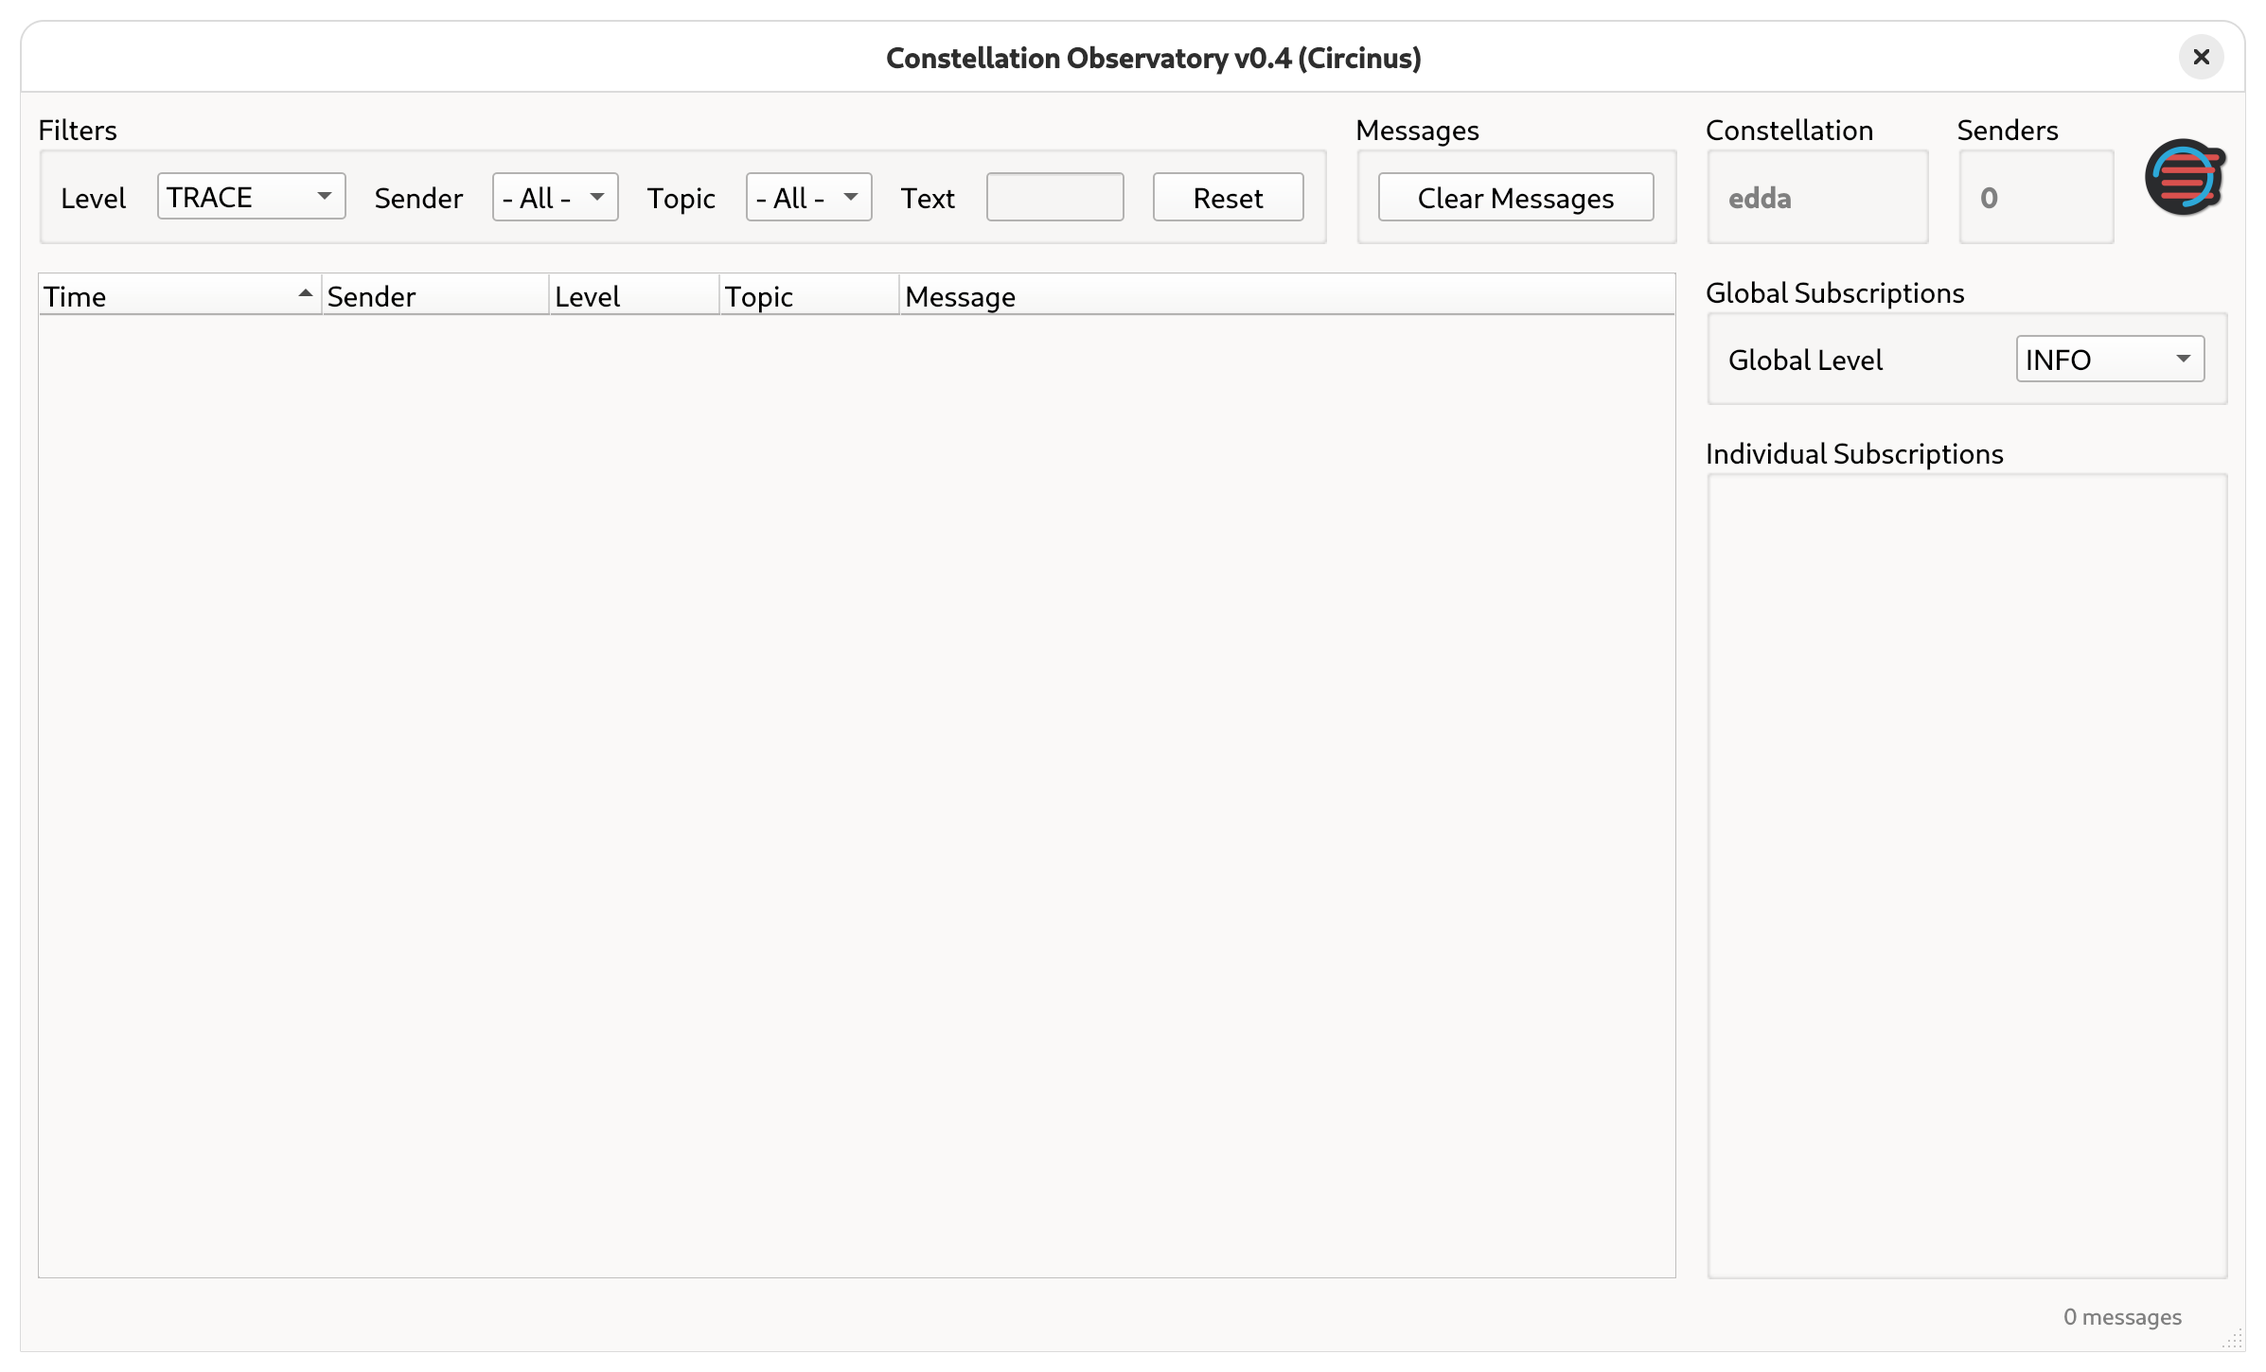
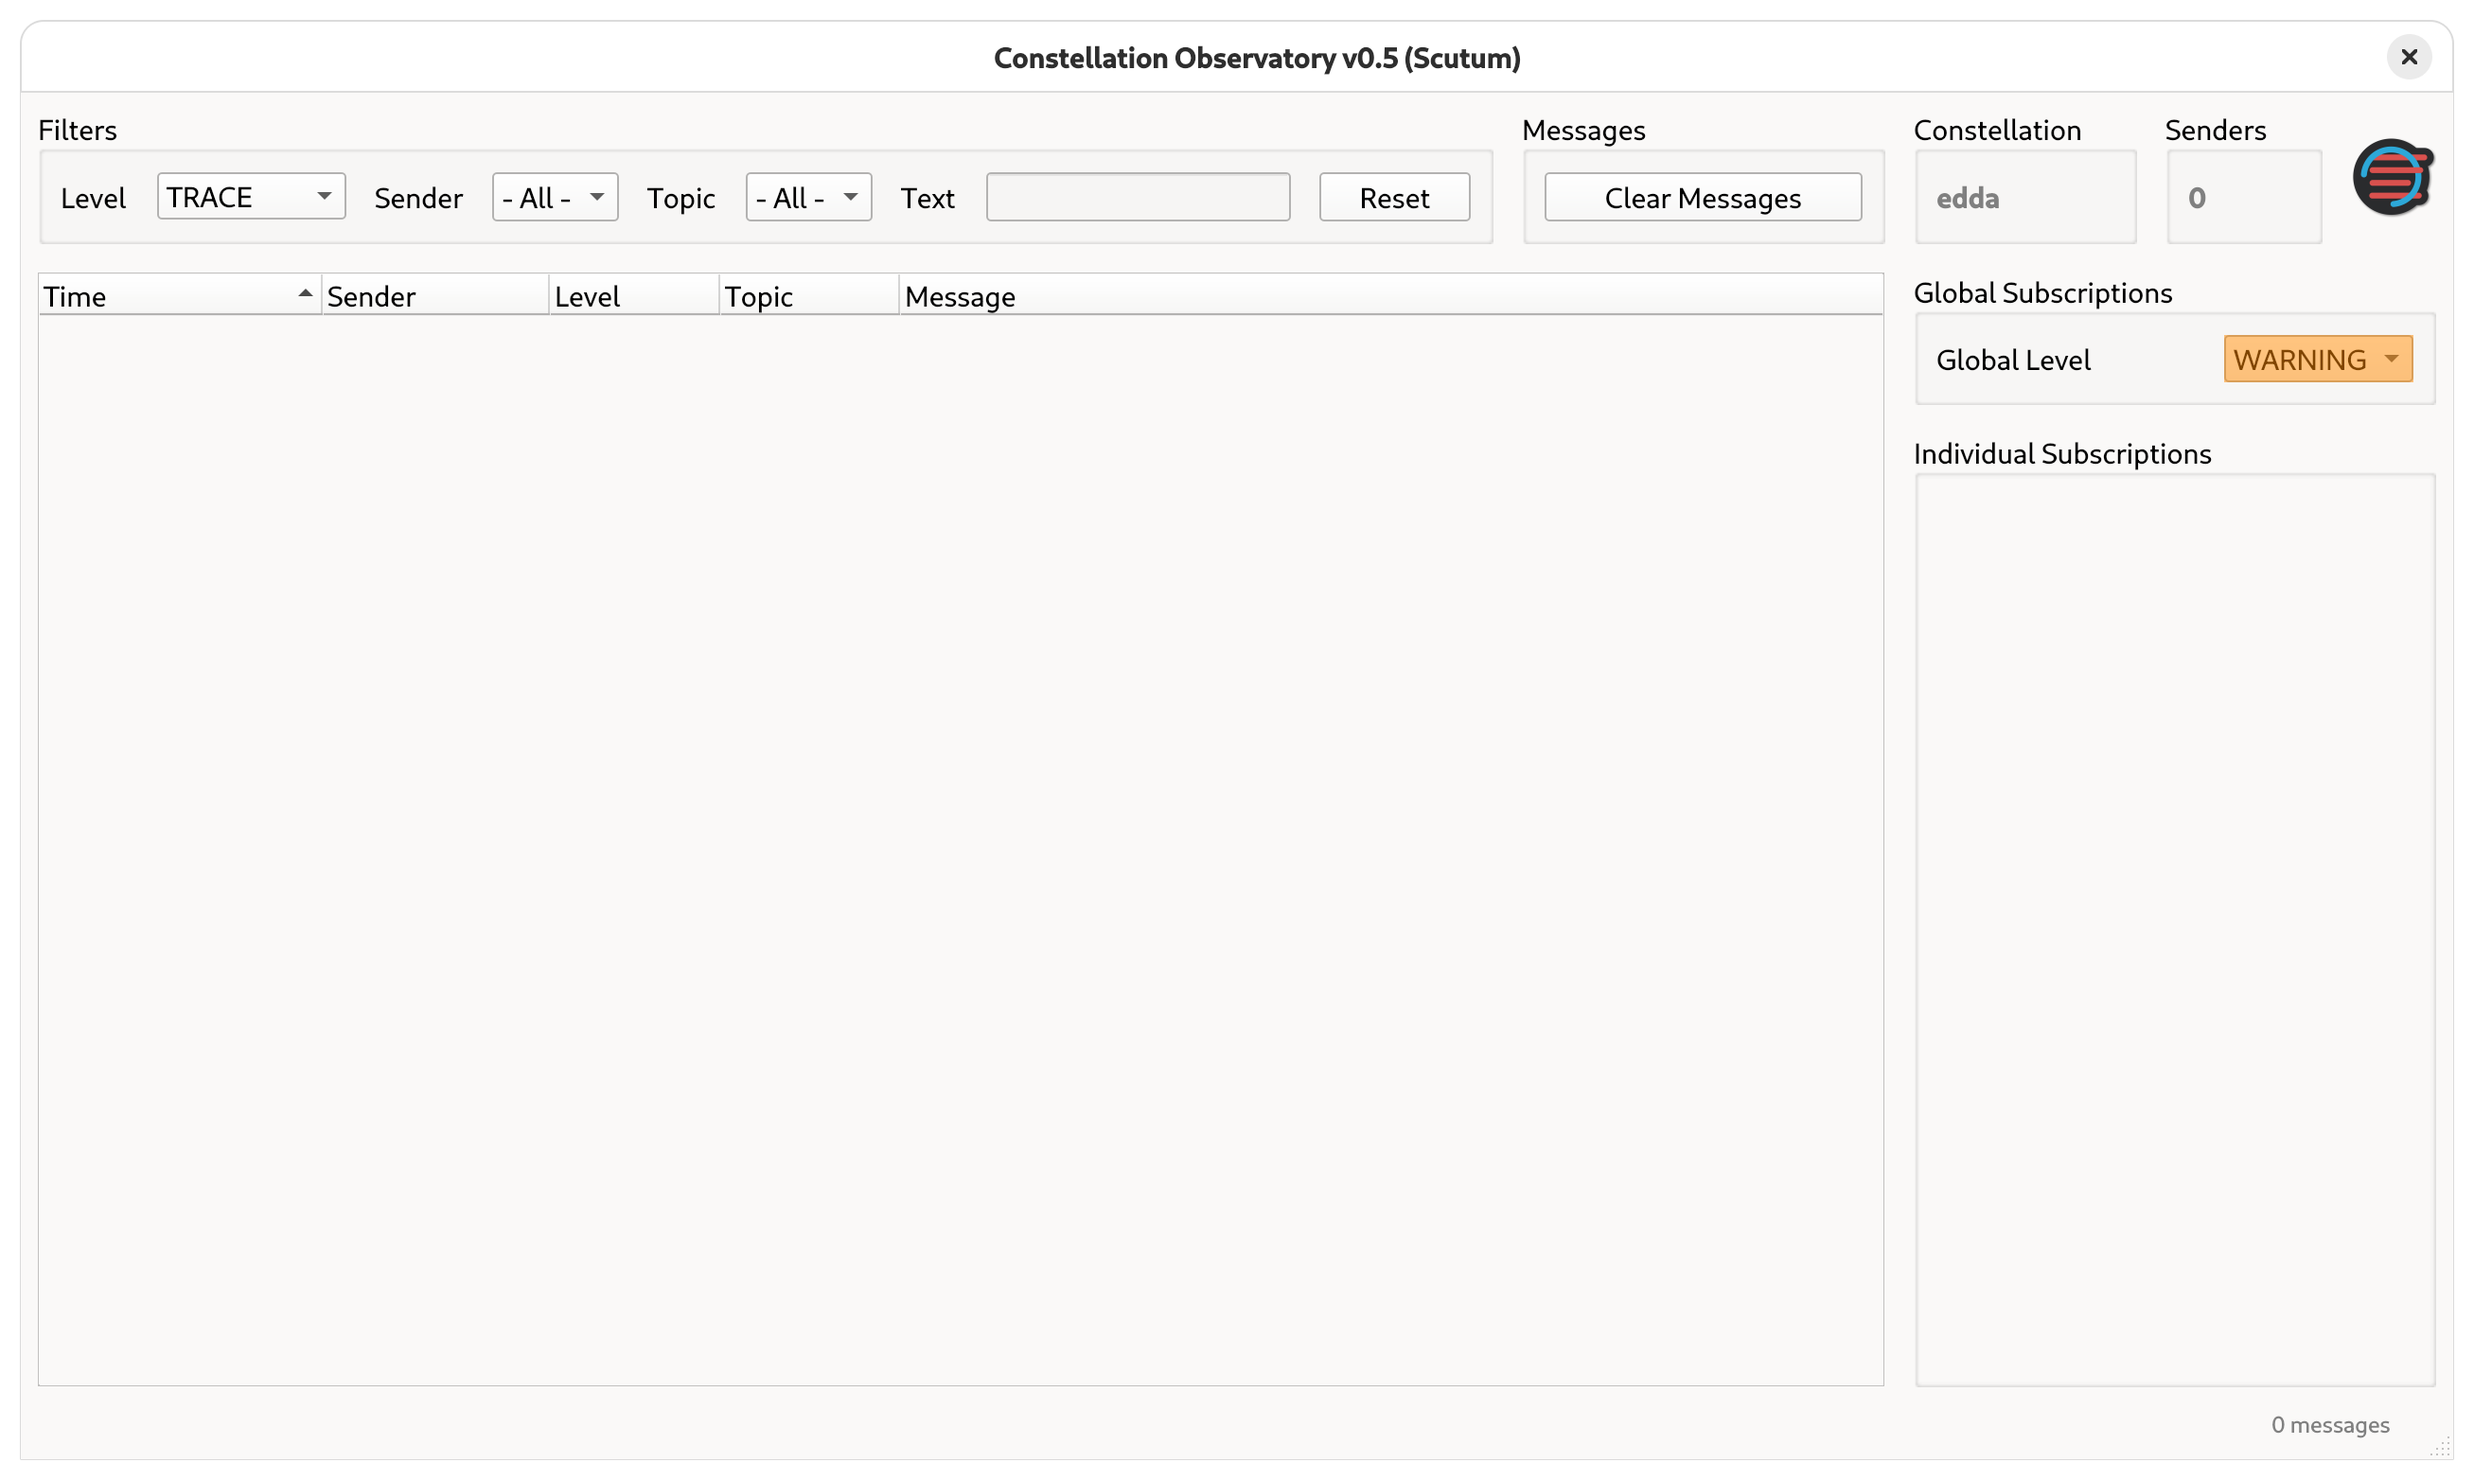
docs: update screenshots for v0.5

diff --git a/docs/operator_guide/tutorials/observatory.md b/docs/operator_guide/tutorials/observatory.md
@@ -101,7 +101,7 @@ The level of log messages to be received by this logger can be adjusted with the
 in the subscription section on the right.
 After adjusting the subscription, new log messages of selected level and all higher levels are received when generated e.g.
 by launching the satellites.
-For debugging purposes, it can be useful to increase the log level beyond the default `INFO` log level:
+For debugging purposes, it can be useful to increase the log level beyond the default log level:
 
 ```{figure} observatory_debug.png
 Observatory main window with debug messages
